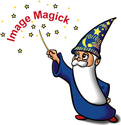
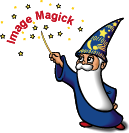
*** empty log message ***

diff --git a/www/install.html b/www/install.html
@@ -10,7 +10,7 @@
 </head>
 <body text="#000000" bgcolor="#FFFFFF" link="#1F00FF" vlink="#9900DD" alink="#FF0000">
 
-<center><img SRC="../images/magick_small.png" height=125 width=121></center>
+<center><img SRC="../images/magick_small.png" width=129 height=133></center>
 
 <pre>&nbsp;</pre>
 
@@ -559,7 +559,7 @@ images (may not compile under linux). You also need Ghostscript (see below).</dd
 <dl>&nbsp;
 <table BORDER=0 WIDTH="65%" >
 <tr>
-<td ALIGN=LEFT BGCOLOR="#9EBAC6"><img SRC="../images/right_triangle.png" ALT=">" BORDER=0 height=14 width=15><b><font face="Helvetica, Arial"><font color="#FFFFFF"><font size=+1><a href=http://www.gnu.org/software/wget/wget.html">wget</a></font></font></font></b></td>
+<td ALIGN=LEFT BGCOLOR="#9EBAC6"><img SRC="../images/right_triangle.png" ALT=">" BORDER=0 height=14 width=15><b><font face="Helvetica, Arial"><font color="#FFFFFF"><font size=+1><a href=http://www.gnu.org/software/wget/wget.html>wget</a></font></font></font></b></td>
 </tr>
 </table>
 
@@ -697,7 +697,7 @@ software to read the Radiance image format (may not compile under linux).</dd>
 <dl>&nbsp;
 <table BORDER=0 WIDTH="65%" >
 <tr>
-<td ALIGN=LEFT BGCOLOR="#9EBAC6"><img SRC="../images/right_triangle.png" ALT=">" BORDER=0 height=14 width=15><b><font face="Helvetica, Arial"><font color="#FFFFFF"><font size=+1><a href="ftp://ftp.cs.utah.edu/pub/urt-3.1b.tar.Z">RAWTORLE</a></font></font></font></b></td>
+<td ALIGN=LEFT BGCOLOR="#9EBAC6"><img SRC="../images/right_triangle.png" ALT=">" BORDER=0 height=14 width=15><b><font face="Helvetica, Arial"><font color="#FFFFFF"><font size=+1><a href="ftp://ftp.cs.utah.edu/pub/dept/OLD/pub//urt-3.1b.tar.Z">RAWTORLE</a></font></font></font></b></td>
 </tr>
 </table>
 

diff --git a/www/cvs.html b/www/cvs.html
@@ -10,7 +10,7 @@
 </head>
 <body text="#000000" bgcolor="#FFFFFF" link="#1F00FF" vlink="#9900DD" alink="#FF0000">
 
-<center><img SRC="../images/magick_small.png" height=125 width=121></center>
+<center><img SRC="../images/magick_small.png" width=129 height=133></center>
 
 <p>The ImageMagick source is available via anonymous CVS. This is a convenient
 way for developers from around the country or world to download the ImageMagick

diff --git a/www/cd.html b/www/cd.html
@@ -10,7 +10,7 @@
 </head>
 <body text="#000000" bgcolor="#FFFFFF" link="#1F00FF" vlink="#9900DD" alink="#FF0000">
 
-<center><img SRC="../images/magick_small.png" height=125 width=121></center>
+<center><img SRC="../images/magick_small.png" width=129 height=133></center>
 
 <p>ImageMagick, version 5.1.1, source and binary distribution is available
 for a limited time on CD. The CD includes everything that is found at the

diff --git a/www/archives.html b/www/archives.html
@@ -10,7 +10,7 @@
 </head>
 <body text="#000000" bgcolor="#FFFFFF" link="#1F00FF" vlink="#9900DD" alink="#FF0000">
 
-<center><img SRC="../images/magick_small.png" height=125 width=121></center>
+<center><img SRC="../images/magick_small.png" width=129 height=133></center>
 
 <p>The source distribution of <b>ImageMagick</b> as well as pre-compiled
 binaries are available at any of the sites listed here (unless otherwise

diff --git a/www/magick-list.html b/www/magick-list.html
@@ -10,7 +10,7 @@
 </head>
 <body text="#000000" bgcolor="#FFFFFF" link="#1F00FF" vlink="#9900DD" alink="#FF0000">
 
-<center><img SRC="../images/magick_small.png" height=125 width=121></center>
+<center><img SRC="../images/magick_small.png" width=129 height=133></center>
 
 <p><br>
 <p>The <a href="http://www.wizards.dupont.com/magick/ImageMagick/">ImageMagick</a>

diff --git a/www/quantize.html b/www/quantize.html
@@ -10,7 +10,7 @@
 </head>
 <body text="#000000" bgcolor="#FFFFFF" link="#1F00FF" vlink="#9900DD" alink="#FF0000">
 
-<center><img SRC="../images/magick_small.png" height=125 width=121></center>
+<center><img SRC="../images/magick_small.png" width=129 height=133></center>
 
 <p><br>
 <p>This document describes how <a href="../ImageMagick.html">ImageMagick</a>

diff --git a/www/miff.html b/www/miff.html
@@ -10,7 +10,7 @@
 </head>
 <body text="#000000" bgcolor="#FFFFFF" link="#1F00FF" vlink="#9900DD" alink="#FF0000">
 
-<center><img SRC="../images/magick_small.png" height=125 width=121></center>
+<center><img SRC="../images/magick_small.png" width=129 height=133></center>
 
 <p><br>
 <p><b>Magick Image File Format (MIFF)</b> is a platform-independent format

diff --git a/www/help.html b/www/help.html
@@ -10,7 +10,7 @@
 </head>
 <body text="#000000" bgcolor="#FFFFFF" link="#1F00FF" vlink="#9900DD" alink="#FF0000">
 
-<center><img SRC="../images/magick_small.png" height=125 width=121></center>
+<center><img SRC="../images/magick_small.png" width=129 height=133></center>
 
 <p><br>
 <p>A number of individuals volunteer their time to develop and maintain

diff --git a/www/new.html b/www/new.html
@@ -10,7 +10,7 @@
 </head>
 <body text="#000000" bgcolor="#FFFFFF" link="#1F00FF" vlink="#9900DD" alink="#FF0000">
 
-<center><img SRC="../images/magick_small.png" height=125 width=121></center>
+<center><img SRC="../images/magick_small.png" width=129 height=133></center>
 
 <p><br>
 <p><b>ImageMagick</b> is continually being enhanced. Check this section

diff --git a/www/Changelog.html b/www/Changelog.html
@@ -10,7 +10,7 @@
 </head>
 <body text="#000000" bgcolor="#FFFFFF" link="#1F00FF" vlink="#9900DD" alink="#FF0000">
 
-<center><img SRC="../images/magick_small.png" height=125 width=121></center>
+<center><img SRC="../images/magick_small.png" width=129 height=133></center>
 
 <h3>
 <a href="../ImageMagick.html">ImageMagick</a> 5.2.0, June 1, 2000</h3>

diff --git a/www/combine.html b/www/combine.html
@@ -10,7 +10,7 @@
 </head>
 <body text="#000000" bgcolor="#FFFFFF" link="#1F00FF" vlink="#9900DD" alink="#FF0000">
 <a NAME="top"></a>
-<center><img SRC="../images/magick_small.png" height=125 width=121></center>
+<center><img SRC="../images/magick_small.png" width=129 height=133></center>
 
 <br>&nbsp;
 <table BORDER=0 WIDTH="100%" >

diff --git a/www/display.html b/www/display.html
@@ -10,7 +10,7 @@
 </head>
 <body text="#000000" bgcolor="#FFFFFF" link="#1F00FF" vlink="#9900DD" alink="#FF0000">
 <a NAME="top"></a>
-<center><img SRC="../images/magick_small.png" height=125 width=121></center>
+<center><img SRC="../images/magick_small.png" width=129 height=133></center>
 
 <br>&nbsp;
 <table BORDER=0 WIDTH="100%" >
